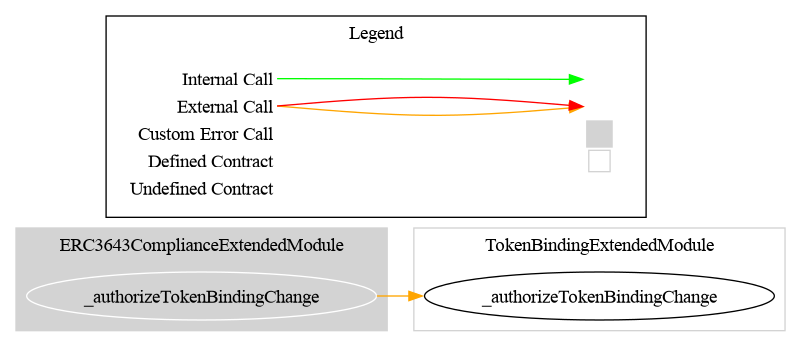
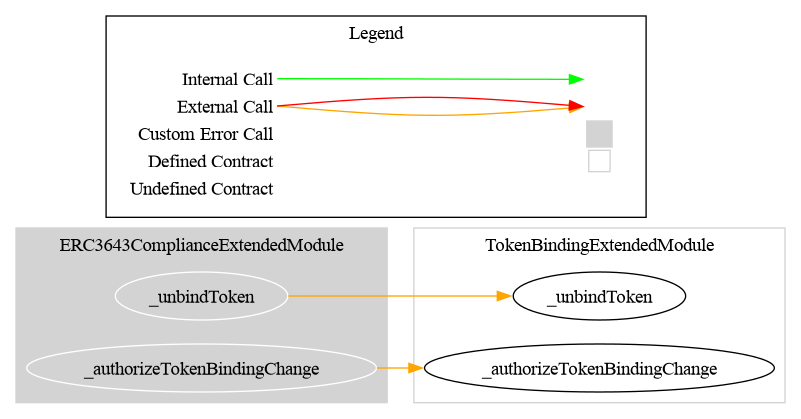
fix: an administrative unbind (unbindToken / unbindTokens) now revokes the token's self-binding approval, so the token cannot undo the manager's decision; a token unbinding itself keeps it (rc7 security review F-2); test: invert the F-2 proof of concept and cover the batch, self-unbind and event pat

diff --git a/doc/security/audits/tools/v3.0.0-rc7/CLAUDE_AUDIT.md b/doc/security/audits/tools/v3.0.0-rc7/CLAUDE_AUDIT.md
@@ -37,7 +37,7 @@ them, and the codes and messages the views report.
 2. Privileged surface from the Slither printers: every state-changing external function of the six deployables
    and its guard.
 3. Review of each threat against the code and the documentation.
-4. Tests: 68 new tests integrated in the suite, following its convention (a shared base in `test/utils/`, a short
+4. Tests: 86 new tests integrated in the suite, following its convention (a shared base in `test/utils/`, a short
    file per deployable), run in a Docker container (Foundry 1.5.1).
 5. Mutation check: three deliberately broken versions of the code, each caught by a new test.
 6. Adversarial pass, then correction of the findings.
@@ -45,7 +45,7 @@ them, and the codes and messages the views report.
 ## 2. Executive Summary
 
 **0 Critical, 0 High, 0 Medium, 0 Low, 3 Informational** (F-1, F-2, F-3), plus one item already open in the
-code-quality review (F-5). F-1 has since been fixed (section 6); F-2, F-3 and F-5 remain open. The first pass rated F-1 and F-2 Low; the adversarial pass downgraded them, and
+code-quality review (F-5). F-1 and F-2 have since been fixed (section 6); F-3 and F-5 remain open. The first pass rated F-1 and F-2 Low; the adversarial pass downgraded them, and
 dismissed three other items as documented behaviour (F-4, F-6, F-7).
 
 **Cleared hypotheses.** These would have been High or Medium had they held; each was probed and does not:
@@ -67,7 +67,7 @@ dismissed three other items as documented behaviour (F-4, F-6, F-7).
 | ID | Title | Severity | Status | Component | PoC |
 |----|-------|----------|--------|-----------|-----|
 | F-1 | Pending owner turned rule can accept ownership | Info (was Low) | Fixed | `RuleEngineOwnable2Step.sol:29-32`, inherited `acceptOwnership` | `testNomineeAddedAsRuleBeforeAcceptingBecomesOwner` |
-| F-2 | Self-binding approval survives an administrative unbind | Info (was Low) | Open | `TokenBindingModule.sol:81`, `TokenBindingExtendedModule.sol:52, 98` | `testApprovedTokenRebindsItselfAfterManagerUnbinds` |
+| F-2 | Self-binding approval survives an administrative unbind | Info (was Low) | Fixed (option 1) | `TokenBindingModule.sol:81`, `TokenBindingExtendedModule.sol:52, 98` | `testApprovedTokenRebindsItselfAfterManagerUnbinds` |
 | F-3 | Any address can be bound, including a rule or an EOA | Info | Open | `TokenBindingModule.sol:100` | `testRuleAddressCanBeBoundAsToken`, `testBoundEoaConsumesStatefulRuleState` |
 | F-4 | Views revert when a rule's view reverts | — | Dismissed: documented | `RuleEngineBase.sol:172, 214` | `testViewsRevertWhenARuleViewReverts` |
 | F-5 | `*2771` deployables accept `address(0)` as forwarder | Info | Duplicate of code-quality review `H-3` (open) | constructors of the three `*2771` | `testZeroForwarderIsAccepted` |
@@ -162,6 +162,15 @@ another compliance contract; the manager would have to approve again before ever
 `TokenBinding-module.md` §4 and in `RuleEngine-with-ERC3643.md` §3.2, that an approved token can bind itself again
 until its approval is revoked, so revocation must come before the unbind when the intent is to remove the token.
 The current mitigation test, `testRevokingApprovalPreventsRebind`, already shows the correct order.
+
+**Fixed: option 1.** `TokenBindingExtendedModule` overrides `_unbindToken`: after removing the token, it revokes
+the approval when the caller is not the token itself (raw `msg.sender`), through a new `_setTokenSelfBindingApproval`
+that also backs `setTokenSelfBindingApproval` and emits `TokenSelfBindingApprovalSet`. `ERC3643ComplianceExtendedModule`
+disambiguates the override. Tests, on all six deployables: the proof of concept became
+`testManagerUnbindRevokesSelfBindingApproval` (asserts the event and that the token can no longer bind itself), plus
+`testManagerBatchUnbindRevokesSelfBindingApproval`, `testTokenUnbindingItselfKeepsApproval` and
+`testManagerUnbindOfUnapprovedTokenEmitsNoApprovalEvent`. Removing the revocation fails two tests; revoking also on
+the token's own unbind fails one.
 
 ### F-3 — Any address can be bound, including a rule or an EOA (Info)
 
@@ -264,26 +273,26 @@ call any administrative function, even from inside its callback.
 
 ## 6. Remediation — What Was Implemented
 
-One finding was fixed after the review; the others are open.
+Two findings were fixed after the review; the others are open.
 
 | Item | Status | What changed | Verified by |
 |---|---|---|---|
 | F-1 | Fixed | `RuleEngineOwnable2Step.acceptOwnership` re-checks that the caller is not a rule (inherited by `RuleEngineOwnable2Step2771`). Behaviour change: a nominee that became a rule can no longer accept until it is removed from the rule set | PoC inverted into a regression test, plus a recovery test, on both deployables; removing the check makes both fail |
-| F-2 | Open | Behaviour unchanged; the PoC and the working mitigation (revoke first) pinned on six deployables | `SecurityReview.t.sol` |
+| F-2 | Fixed | A manager's `unbindToken` / `unbindTokens` revokes the token's self-binding approval (`_unbindToken` override, single approval write path). Behaviour change: an ERC-3643 token unbound by the manager needs a new approval before it can bind itself; a token unbinding itself keeps its approval | PoC inverted into a regression test, plus batch, self-unbind and event tests on six deployables; mutation-checked |
 | F-3 | Open | Behaviour unchanged; pinned on six deployables | `SecurityReview.t.sol` |
 | F-5 / H-3 | Open | Behaviour unchanged; pinned on three deployables | `ERC2771VariantTestBase` |
 | Access control, unbound callers | Verified | New fuzz tests on six deployables | mutation-checked |
 
-**Tests added.** 68 tests: `test/utils/SecurityReviewTestBase.sol` (10 tests, run by `test/<Variant>/SecurityReview.t.sol`
+**Tests added.** 86 tests: `test/utils/SecurityReviewTestBase.sol` (13 tests, run by `test/<Variant>/SecurityReview.t.sol`
 for the six deployables), `test/utils/Ownable2StepRuleGuardTestBase.sol` (3 tests, run by `RuleGuard.t.sol` for the
 two `Ownable2Step` deployables), `testZeroForwarderIsAccepted` in `test/utils/ERC2771VariantTestBase.sol` (three
-`*2771` deployables), and two test-only rules, `RevertingViewRule` and `ReentrantAdminRule`. Suite: 574 tests, all
-passing; the real T-REX suite: 13, all passing; coverage of `src/` unchanged at 100% of lines, statements,
-branches and functions.
+`*2771` deployables), and two test-only rules, `RevertingViewRule` and `ReentrantAdminRule`. Suite: 592 tests, all
+passing; the real T-REX suite: 13, all passing; coverage of `src/` at 100% of lines, statements,
+branches (50/50) and functions.
 
 Several new tests pin today's behaviour of an open item. When an item is fixed, its PoC is expected to fail and must
-be inverted into a regression test, as was done for F-1. The F-2 PoC was checked the same way: applying the F-2 fix
-makes `testApprovedTokenRebindsItselfAfterManagerUnbinds` fail.
+be inverted into a regression test, as was done for F-1 and F-2: applying each fix made its PoC fail, and the PoC
+was then rewritten to assert the fixed behaviour.
 
 ## 7. Potential Improvements (open backlog)
 
@@ -291,13 +300,12 @@ These are hardening items, not vulnerabilities.
 
 | # | Improvement | Addresses | Effort | Breaking? | Priority |
 |---|---|---|---|---|---|
-| 1 | Clear the self-binding approval when the manager unbinds a token, in `_unbindToken` (F-2 option 1), or document that revocation must precede the unbind (option 3) | F-2 | Small | Behaviour change for approved tokens | Medium |
-| 2 | Keep rules and bound tokens disjoint: a binding hook overridden in `RuleEngineBase`, and a bound-token check in `_checkRule` (F-3 part 1) | F-3 | Small | Rejects two configurations accepted today | Low |
-| 3 | Document binding as a full trust decision: EOAs and arbitrary contracts are accepted and can drive stateful rules (F-3 part 2) | F-3 | Docs | No | Low |
-| 4 | Decide `H-3`: reject `address(0)` as forwarder in the three `*2771` constructors (not in `ERC2771ModuleStandalone`, which the mock rules use with zero) | F-5 | Small | Constructor rejects a value it accepts today | Low |
+| 1 | Keep rules and bound tokens disjoint: a binding hook overridden in `RuleEngineBase`, and a bound-token check in `_checkRule` (F-3 part 1) | F-3 | Small | Rejects two configurations accepted today | Low |
+| 2 | Document binding as a full trust decision: EOAs and arbitrary contracts are accepted and can drive stateful rules (F-3 part 2) | F-3 | Docs | No | Low |
+| 3 | Decide `H-3`: reject `address(0)` as forwarder in the three `*2771` constructors (not in `ERC2771ModuleStandalone`, which the mock rules use with zero) | F-5 | Small | Constructor rejects a value it accepts today | Low |
 
-Item 1 is a design decision for the maintainers: clearing the approval makes the manager's unbind final, while
-keeping it preserves a token's ability to migrate back without a new approval.
+Item 1 changes which configurations the engine accepts (an address can no longer be both a rule and a bound
+token), so it is a decision for the maintainers rather than a defect fix.
 
 ## 8. Scope & Duplicate Check
 

diff --git a/CHANGELOG.md b/CHANGELOG.md
@@ -120,13 +120,14 @@ Commit:
 
 Security hardening of the ERC-2771 token-identity checks, and ERC-2771 becomes opt-in: each access-control model is split into a contract without ERC-2771 (`RuleEngine`, `RuleEngineOwnable`, `RuleEngineOwnable2Step`) and a `*2771` contract with the trusted forwarder (`RuleEngine2771`, `RuleEngineOwnable2771`, `RuleEngineOwnable2Step2771`). The trusted forwarder can no longer pass as a token: the bound-token gate and the token self-binding check now compare `msg.sender`. The CMTAT submodule moves to v3.3.0-rc4 and the ERC-3643 submodule to T-REX 4.2.0-beta1, which is now tested end-to-end in a dedicated Foundry profile. The CMTAT / Rules documentation is corrected and completed. `version()` now carries the release-candidate suffix. The code-quality review fixes add a narrower `IRule` interface (the previous one is still accepted), one error fewer, the deployables grouped in `src/deployment/accessControl/` and `src/deployment/ownable/`, and invariant tests.
 
-rc7 is **not** a drop-in update from rc6: it changes three constructors, who may call the token callbacks, the `version()` string, the source paths of the deployables, the error set, and the `IRule` ERC-165 ID that new rules advertise. Each is listed below with what to do.
+rc7 is **not** a drop-in update from rc6: it changes three constructors, who may call the token callbacks, the `version()` string, the source paths of the deployables, the error set, the `IRule` ERC-165 ID that new rules advertise, and what a manager's unbind does to a token's self-binding approval. Each is listed below with what to do.
 
 ### Breaking change
 
 - **ERC-2771 is now opt-in: `RuleEngine`, `RuleEngineOwnable` and `RuleEngineOwnable2Step` no longer support it, and their constructors drop the forwarder.** They are now `constructor(address admin, address tokenContract)` and `constructor(address owner_, address tokenContract)`, have no `isTrustedForwarder` / `trustedForwarder`, and treat every caller as the raw `msg.sender`. The versions with a trusted forwarder are the new **`RuleEngine2771`**, **`RuleEngineOwnable2771`** and **`RuleEngineOwnable2Step2771`**, whose constructors `(admin|owner_, forwarderIrrevocable, tokenContract)` and behaviour are those of the rc6 contracts without the suffix. Migration: a deployment that passed `address(0)` as forwarder drops the middle argument; one that passed a forwarder deploys the `*2771` contract. Deployment scripts in other repositories (for example CMTA/Rules) that call the 3-argument constructors must be updated.
 - **Token callbacks and token self-binding are no longer relayable through the ERC-2771 forwarder.** `transferred`, `created` and `destroyed` (`onlyBoundToken`), and a token's own `bindToken` / `unbindToken(this)`, now identify the token by `msg.sender` instead of `_msgSender()`. A call that the trusted forwarder relays with a token address appended is rejected (`TokenBinding_UnauthorizedCaller`, or the binding-manager check for the self-binding path). Real tokens are unaffected, because they always call the engine directly. Only a setup that relayed token callbacks through the forwarder breaks, and no legitimate setup does. Administrative functions are unchanged and remain relayable.
 - **`version()` return value format.** It now returns `"3.0.0-rc7"` instead of `"3.0.0"`. An integration that compares the string literally (deployment checks, indexers, upgrade scripts) must be updated, and must expect the suffix to change at each release candidate.
+- **A manager unbind revokes self-binding approval.** An ERC-3643 token unbound by the binding manager must be approved again (`setTokenSelfBindingApproval`) before it can bind itself through `setCompliance`. Tokens that unbind themselves are unaffected. See Security.
 - **Deployable source paths.** The six deployables moved from `src/deployment/` to `src/deployment/accessControl/` (`RuleEngine`, `RuleEngine2771`) and `src/deployment/ownable/` (the four ownable contracts). A project that imports them, or a script that names the file (`forge create src/deployment/RuleEngine.sol:RuleEngine`), must update the path. Contract names, constructors and ABIs are unchanged.
 - **Error removed: `RuleEngine_RulesManagementModule_OperationNotSuccessful`.** It could not be triggered (the checks before it always reverted first), so no transaction emitted it, but it disappears from the ABI. Off-chain decoders that list the engine's errors (indexers, monitoring, block explorers, scripts that map a selector to a revert reason) should drop it. Duplicate and absent rules still revert with `RuleEngine_RulesManagementModule_RuleAlreadyExists` and `RuleEngine_RulesManagementModule_RuleDoNotMatch`.
 - **`IRule` ERC-165 ID: `0xb1a69752` for new rules, `0x2497d6cb` still accepted.** `IRule` no longer requires `canTransfer` / `canTransferFrom`, so `RuleInterfaceId.IRULE_INTERFACE_ID` changes from `0x2497d6cb` to `0xb1a69752`. Existing rules need no change: the rc7 engine accepts both IDs. The reverse is not true: a rule compiled against rc7 that advertises only `RuleInterfaceId.IRULE_INTERFACE_ID` is rejected by an rc6 or older engine (`RuleEngine_RuleInvalidInterface`). A rule meant to work with both generations advertises both IDs (`RuleInterfaceId.IRULE_LEGACY_INTERFACE_ID` is provided for that).
@@ -136,6 +137,7 @@ rc7 is **not** a drop-in update from rc6: it changes three constructors, who may
 
 - **The trusted ERC-2771 forwarder can no longer act as a token.** `TokenBindingModule._checkBoundToken` (the `onlyBoundToken` gate) and the token self-binding check in `TokenBindingExtendedModule._authorizeTokenBindingChange` compared `_msgSender()`, so a trusted forwarder could append a token's address and pass as that token. It could (a) call `transferred` / `created` / `destroyed` with no token movement, driving stateful rules, for example consuming a per-minter mint quota or a one-time transfer approval; and (b) call `unbindToken(token)` for a token approved for self-binding, after which every operation of that token reverted until it was re-bound. Both checks now compare the raw `msg.sender`; a token never calls through a forwarder. A signature-verifying forwarder could not produce these calls, because a token cannot sign, so the exposure was limited to a buggy, malicious or permissive forwarder. This aligns with CMTAT's `onlyTokenBridge` and with CMTAT's RuleEngine integration guide. The administrative checks keep `_msgSender()`, so gasless administration is unchanged.
 - **`RuleEngineOwnable2Step` re-checks the rule-account guard in `acceptOwnership`.** The check that keeps rule contracts away from ownership ran only at nomination (`transferOwnership`), so an address nominated while it was not a rule, then added as a rule, could still accept and own the engine. `acceptOwnership` now reverts with `RuleEngine_RulesManagementModule_RuleAccountCannotReceivePrivileges` in that case; the transfer completes once the address is removed from the rule set. Applies to `RuleEngineOwnable2Step2771` too. Required two actions by the trusted owner. rc7 security review `F-1` ([CLAUDE_AUDIT.md](./doc/security/audits/tools/v3.0.0-rc7/CLAUDE_AUDIT.md)).
+- **An administrative unbind revokes the token's self-binding approval.** `unbindToken` and `unbindTokens` called by the binding manager now also clear the token's self-binding approval (`TokenBindingExtendedModule._unbindToken`, emitting `TokenSelfBindingApprovalSet(token, false)`). Before, an approved token could bind itself again right after the manager unbound it, undoing the manager's decision. A token unbinding itself keeps its approval, so ERC-3643 `setCompliance` migrations are unchanged. The approval setter now goes through `_setTokenSelfBindingApproval`, the single write path of the per-token event. rc7 security review `F-2` ([CLAUDE_AUDIT.md](./doc/security/audits/tools/v3.0.0-rc7/CLAUDE_AUDIT.md)).
 
 ### Changed
 

diff --git a/doc/technical/TokenBinding-module.md b/doc/technical/TokenBinding-module.md
@@ -119,6 +119,12 @@ These are properties of the registry itself, not of any standard built on it.
 - **Binding and unbinding are not idempotent.** Re-binding a bound token reverts with
   `TokenBinding_TokenAlreadyBound`, and unbinding an unbound one with `TokenBinding_TokenNotBound`, so a
   redundant administrative call is reported rather than silently accepted.
+- **An administrative unbind revokes the self-binding approval.** When the binding manager unbinds a token
+  (`unbindToken` or `unbindTokens`), `TokenBindingExtendedModule._unbindToken` also clears the token's
+  self-binding approval and emits `TokenSelfBindingApprovalSet(token, false)`, so the token cannot undo the
+  manager's decision by binding itself again. A token that unbinds itself (`msg.sender == token`) keeps its
+  approval. A host that combines this module with another one defining `_unbindToken` must disambiguate the
+  override in favour of `TokenBindingExtendedModule`, as `ERC3643ComplianceExtendedModule` does.
 - **Self-binding approvals have two events; indexers must handle both.** `setTokenSelfBindingApproval` emits
   `TokenSelfBindingApprovalSet(address indexed token, bool approved)`; `setTokenSelfBindingApprovalBatch` emits
   a single `TokenSelfBindingApprovalBatchSet(address[] tokens, bool approved)` with the array as passed, and no

diff --git a/doc/schema/surya/surya_report/surya_report_TokenBindingExtendedModule.sol.md b/doc/schema/surya/surya_report/surya_report_TokenBindingExtendedModule.sol.md
@@ -5,7 +5,7 @@
 
 |  File Name  |  SHA-1 Hash  |
 |-------------|--------------|
-| ./modules/TokenBindingExtendedModule.sol | 07e45e7ed920f4a2a7cc4e53ce13eef9de80549a |
+| ./modules/TokenBindingExtendedModule.sol | c0f9b420d08f54a7fc4c133f7e3a5d336b991710 |
 
 
 ### Contracts Description Table
@@ -22,6 +22,8 @@
 | └ | setTokenSelfBindingApprovalBatch | Public ❗ | 🛑  | onlyTokenBindingManager |
 | └ | isTokenSelfBindingApproved | Public ❗ |   |NO❗ |
 | └ | getTokenBounds | Public ❗ |   |NO❗ |
+| └ | _unbindToken | Internal 🔒 | 🛑  | |
+| └ | _setTokenSelfBindingApproval | Internal 🔒 | 🛑  | |
 | └ | _authorizeTokenBindingChange | Internal 🔒 | 🛑  | |
 
 

diff --git a/doc/technical/RuleEngine-with-ERC3643.md b/doc/technical/RuleEngine-with-ERC3643.md
@@ -83,6 +83,8 @@ engine.isTokenSelfBindingApproved(address(token));          // -> true
 2. Call `token.setCompliance(address(engine))`.
 3. Optionally revoke the approval afterwards if no further migration is expected.
 
+If the binding manager later unbinds the token (`unbindToken` / `unbindTokens`), the engine also revokes its self-binding approval, so the token cannot bind itself again without a new approval. A token that unbinds itself, when `setCompliance` moves it to another compliance contract, keeps its approval and can come back.
+
 Without step 1, `setCompliance` reverts. This is exercised by
 `testSetComplianceRevertsWithoutSelfBindingApproval`.
 

diff --git a/doc/schema/surya/surya_report/surya_report_ERC3643ComplianceExtendedModule.sol.md b/doc/schema/surya/surya_report/surya_report_ERC3643ComplianceExtendedModule.sol.md
@@ -5,7 +5,7 @@
 
 |  File Name  |  SHA-1 Hash  |
 |-------------|--------------|
-| ./modules/ERC3643ComplianceExtendedModule.sol | 309a061c6fa71f57f274b12a84b00c6a780ed508 |
+| ./modules/ERC3643ComplianceExtendedModule.sol | 5e6a5a23033972191c090c478a29a672141b3c72 |
 
 
 ### Contracts Description Table
@@ -17,6 +17,7 @@
 ||||||
 | **ERC3643ComplianceExtendedModule** | Implementation | TokenBindingExtendedModule, ERC3643ComplianceModule, IERC3643ComplianceExtended |||
 | └ | _authorizeTokenBindingChange | Internal 🔒 | 🛑  | |
+| └ | _unbindToken | Internal 🔒 | 🛑  | |
 
 
 ### Legend

diff --git a/doc/README.md b/doc/README.md
@@ -1242,6 +1242,8 @@ under `ERC3643ComplianceExtendedModule`, since that is the form in which the Rul
 | └ | setTokenSelfBindingApprovalBatch | Public ❗ | 🛑  | onlyTokenBindingManager |
 | └ | isTokenSelfBindingApproved | Public ❗ |   |NO❗ |
 | └ | getTokenBounds | Public ❗ |   |NO❗ |
+| └ | _unbindToken | Internal 🔒 | 🛑  | |
+| └ | _setTokenSelfBindingApproval | Internal 🔒 | 🛑  | |
 | └ | _authorizeTokenBindingChange | Internal 🔒 | 🛑  | |
 
 ### ERC3643ComplianceModule

diff --git a/doc/schema/surya/surya_report/surya_report_ITokenBindingExtended.sol.md b/doc/schema/surya/surya_report/surya_report_ITokenBindingExtended.sol.md
@@ -5,7 +5,7 @@
 
 |  File Name  |  SHA-1 Hash  |
 |-------------|--------------|
-| ./interfaces/ITokenBindingExtended.sol | 60badec1addf0935eafd874ffe11cb619bb1726d |
+| ./interfaces/ITokenBindingExtended.sol | 62b0c3b010c8497dbb743dca983288d4802ac857 |
 
 
 ### Contracts Description Table
